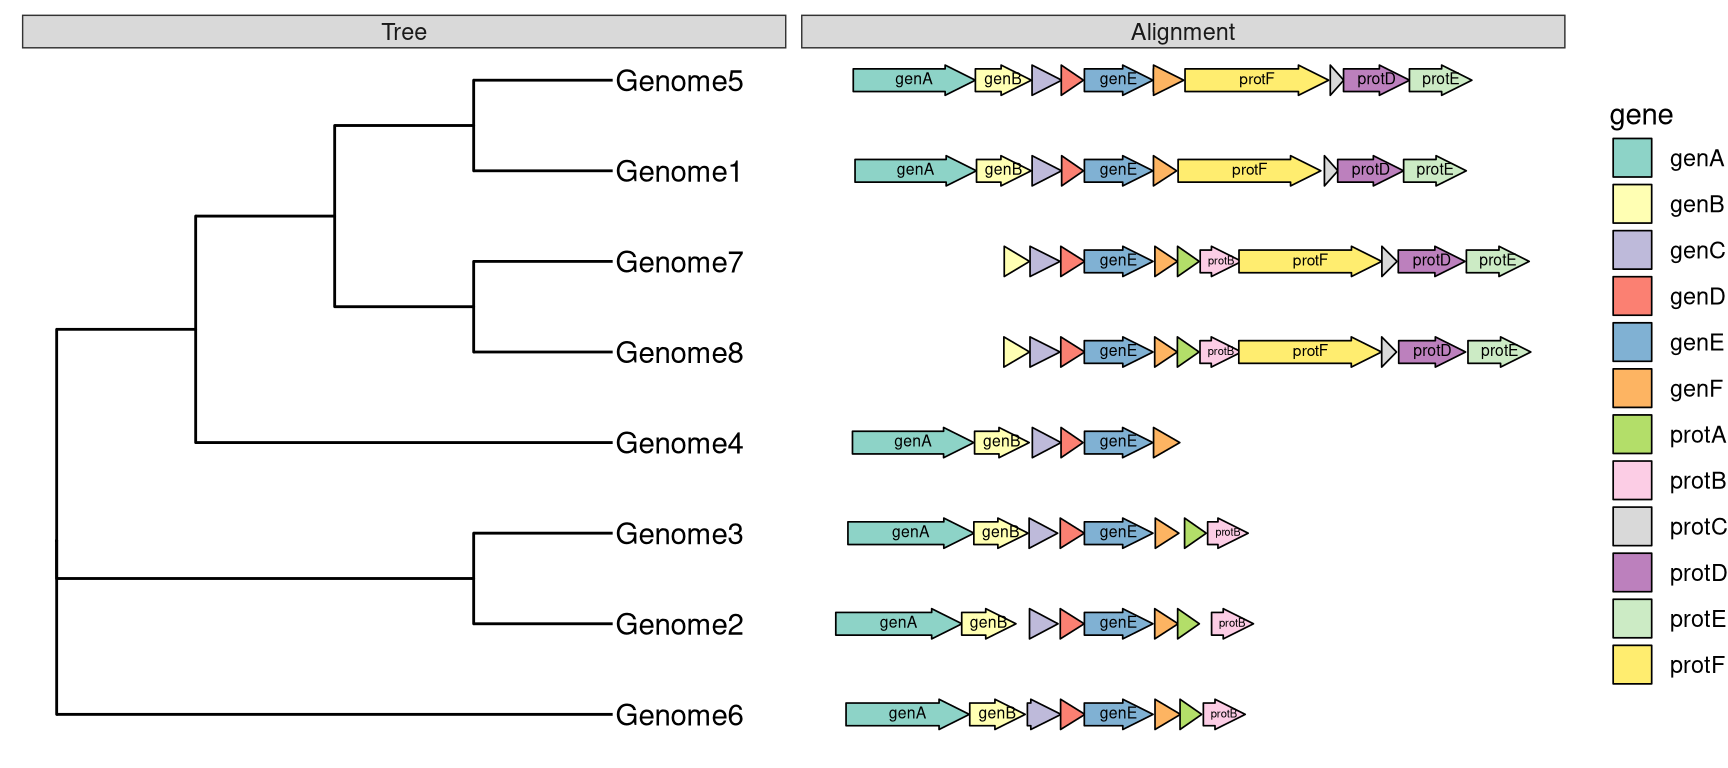
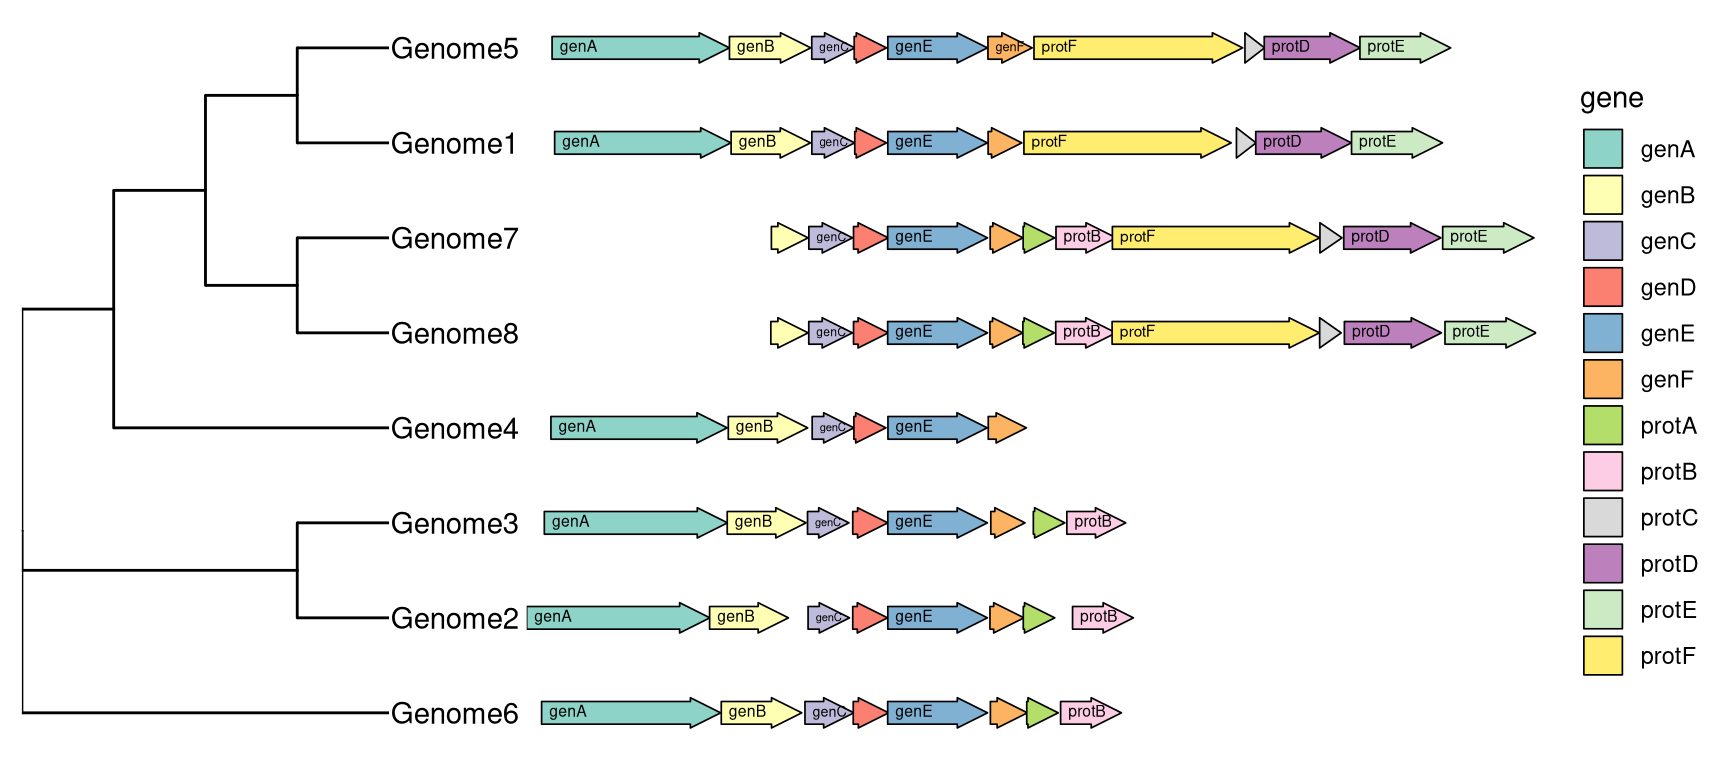
update gggenes example

diff --git a/docs/chapter11.html b/docs/chapter11.html
@@ -463,7 +463,7 @@ Figure 11.2: <strong>Partitioning bootstrap values</strong>. Bootstrap values we
 </div>
 <div id="genome-locus" class="section level2">
 <h2><span class="header-section-number">11.3</span> Phylogenetic tree with genome locus structure</h2>
-<p>The <code>geom_motif</code> is defined in <code>ggtree</code> and it is a wrapper layer of <code>gggenes::geom_gene_arrow</code>. The <code>geom_motif</code> can automatically adjust genomic alignment by selective gene (via the <code>on</code> parameter) and can label genes via the <code>label</code> parameter.</p>
+<p>The <code>geom_motif</code> is defined in <code>ggtree</code> and it is a wrapper layer of <code>gggenes::geom_gene_arrow</code>. The <code>geom_motif</code> can automatically adjust genomic alignment by selective gene (via the <code>on</code> parameter) and can label genes via the <code>label</code> parameter. In the following example, we use <code>example_genes</code> dataset provided by <a href="https://CRAN.R-project.org/package=gggenes">gggenes</a>. As the dataset only provide genomic coordinations of a set of genes, a phylogeny for the genomes need to be firstly constructed. We calculate jaccard similarity based on the ratio of overlapping genes among genomes and correspondingly determine genome distance. BioNJ algorithm was applied to construct the tree (Figure <a href="chapter11.html#fig:gggenes">11.3</a>).</p>
 
 
 <div class="sourceCode" id="cb226"><pre class="sourceCode r"><code class="sourceCode r"><span id="cb226-1"><a href="chapter11.html#cb226-1"></a><span class="kw">library</span>(dplyr)</span>
@@ -489,14 +489,19 @@ Figure 11.2: <strong>Partitioning bootstrap values</strong>. Bootstrap values we
 <span id="cb226-21"><a href="chapter11.html#cb226-21"></a>    }</span>
 <span id="cb226-22"><a href="chapter11.html#cb226-22"></a>}</span>
 <span id="cb226-23"><a href="chapter11.html#cb226-23"></a></span>
-<span id="cb226-24"><a href="chapter11.html#cb226-24"></a></span>
-<span id="cb226-25"><a href="chapter11.html#cb226-25"></a>tree &lt;-<span class="st"> </span>ape<span class="op">::</span><span class="kw">bionj</span>(d)</span>
-<span id="cb226-26"><a href="chapter11.html#cb226-26"></a><span class="kw">ggtree</span>(tree, <span class="dt">branch.length=</span><span class="st">&#39;none&#39;</span>) <span class="op">+</span><span class="st"> </span></span>
-<span id="cb226-27"><a href="chapter11.html#cb226-27"></a><span class="st">    </span><span class="kw">geom_tiplab</span>() <span class="op">+</span><span class="st"> </span><span class="kw">xlim_tree</span>(<span class="dv">5</span>) <span class="op">+</span><span class="st"> </span></span>
+<span id="cb226-24"><a href="chapter11.html#cb226-24"></a>tree &lt;-<span class="st"> </span>ape<span class="op">::</span><span class="kw">bionj</span>(d)</span>
+<span id="cb226-25"><a href="chapter11.html#cb226-25"></a></span>
+<span id="cb226-26"><a href="chapter11.html#cb226-26"></a>p &lt;-<span class="st"> </span><span class="kw">ggtree</span>(tree, <span class="dt">branch.length=</span><span class="st">&#39;none&#39;</span>) <span class="op">+</span><span class="st"> </span></span>
+<span id="cb226-27"><a href="chapter11.html#cb226-27"></a><span class="st">    </span><span class="kw">geom_tiplab</span>() <span class="op">+</span><span class="st"> </span><span class="kw">xlim_tree</span>(<span class="fl">5.5</span>) <span class="op">+</span><span class="st"> </span></span>
 <span id="cb226-28"><a href="chapter11.html#cb226-28"></a><span class="st">    </span><span class="kw">geom_facet</span>(<span class="dt">mapping =</span> <span class="kw">aes</span>(<span class="dt">xmin =</span> start, <span class="dt">xmax =</span> end, <span class="dt">fill =</span> gene),</span>
-<span id="cb226-29"><a href="chapter11.html#cb226-29"></a>               <span class="dt">data=</span>example_genes, <span class="dt">geom=</span>geom_motif, <span class="dt">panel=</span><span class="st">&#39;Alignment&#39;</span>,</span>
-<span id="cb226-30"><a href="chapter11.html#cb226-30"></a>               <span class="dt">on =</span> <span class="st">&#39;genE&#39;</span>, <span class="dt">label =</span> <span class="st">&#39;gene&#39;</span>) <span class="op">+</span></span>
-<span id="cb226-31"><a href="chapter11.html#cb226-31"></a><span class="st">    </span><span class="kw">scale_fill_brewer</span>(<span class="dt">palette =</span> <span class="st">&quot;Set3&quot;</span>) </span></code></pre></div>
+<span id="cb226-29"><a href="chapter11.html#cb226-29"></a>               <span class="dt">data =</span> example_genes, <span class="dt">geom =</span> geom_motif, <span class="dt">panel =</span> <span class="st">&#39;Alignment&#39;</span>,</span>
+<span id="cb226-30"><a href="chapter11.html#cb226-30"></a>               <span class="dt">on =</span> <span class="st">&#39;genE&#39;</span>, <span class="dt">label =</span> <span class="st">&#39;gene&#39;</span>, <span class="dt">align =</span> <span class="st">&#39;left&#39;</span>) <span class="op">+</span></span>
+<span id="cb226-31"><a href="chapter11.html#cb226-31"></a><span class="st">    </span><span class="kw">scale_fill_brewer</span>(<span class="dt">palette =</span> <span class="st">&quot;Set3&quot;</span>) <span class="op">+</span><span class="st"> </span></span>
+<span id="cb226-32"><a href="chapter11.html#cb226-32"></a><span class="st">    </span><span class="kw">scale_x_continuous</span>(<span class="dt">expand=</span><span class="kw">c</span>(<span class="dv">0</span>,<span class="dv">0</span>)) <span class="op">+</span></span>
+<span id="cb226-33"><a href="chapter11.html#cb226-33"></a><span class="st">    </span><span class="kw">theme</span>(<span class="dt">strip.text=</span><span class="kw">element_blank</span>(),</span>
+<span id="cb226-34"><a href="chapter11.html#cb226-34"></a>        <span class="dt">panel.spacing=</span><span class="kw">unit</span>(<span class="dv">0</span>, <span class="st">&#39;cm&#39;</span>))</span>
+<span id="cb226-35"><a href="chapter11.html#cb226-35"></a></span>
+<span id="cb226-36"><a href="chapter11.html#cb226-36"></a><span class="kw">facet_widths</span>(p, <span class="dt">widths=</span><span class="kw">c</span>(<span class="dv">1</span>,<span class="dv">2</span>))</span></code></pre></div>
 <div class="figure"><span id="fig:gggenes"></span>
 <img src="treedata_files/figure-html/gggenes-1.png" alt="Genomic features with phylogenetic tree." width="864" />
 <p class="caption">

diff --git a/docs/session-info.html b/docs/session-info.html
@@ -333,7 +333,7 @@ code span.wa { color: #60a0b0; font-weight: bold; font-style: italic; } /* Warni
 ##  collate  en_US.UTF-8                 
 ##  ctype    en_US.UTF-8                 
 ##  tz       Asia/Chongqing              
-##  date     2019-08-27                  
+##  date     2019-08-28                  
 ## 
 ## ─ Packages ─────────────────────────────────────────────────────────────────────────────
 ##  package           * version    date       lib source                                 
